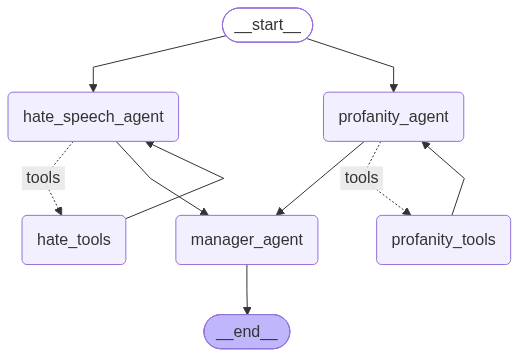
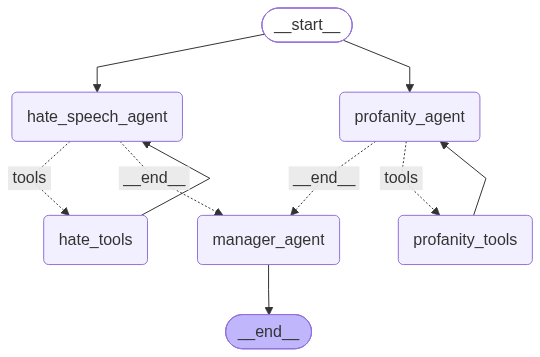
profanity checker tool added

diff --git a/graphs/agent_graph.py b/graphs/agent_graph.py
@@ -5,7 +5,7 @@ from agents.profanity_agent import profanity_agent
 from agents.manager_agent import manager_agent
 from IPython.display import Image, display
 from langgraph.prebuilt import ToolNode, tools_condition
-from tools.agent_tools import word_count_tool
+from tools.agent_tools import word_count_tool, profanity_check_tool
 
 
 builder = StateGraph(MessageState)
@@ -16,7 +16,7 @@ builder.add_node(node="hate_speech_agent", action=hate_speech_agent)
 builder.add_node(node="profanity_agent", action=profanity_agent)
 builder.add_node(node="manager_agent", action=manager_agent)
 builder.add_node(node="hate_tools", action=ToolNode(tools=[word_count_tool]))
-builder.add_node(node="profanity_tools", action=ToolNode(tools=[word_count_tool]))
+builder.add_node(node="profanity_tools", action=ToolNode(tools=[word_count_tool, profanity_check_tool]))
 
 # adding Start to agent connection edges
 
@@ -27,8 +27,8 @@ builder.add_edge(start_key="hate_tools", end_key="hate_speech_agent")
 builder.add_conditional_edges(source="profanity_agent", path=tools_condition, path_map={"tools": "profanity_tools", END: "manager_agent"})
 builder.add_edge(start_key="profanity_tools", end_key="profanity_agent")
 
-builder.add_edge(start_key="hate_speech_agent", end_key="manager_agent")
-builder.add_edge(start_key="profanity_agent", end_key="manager_agent")
+# builder.add_edge(start_key="hate_speech_agent", end_key="manager_agent")
+# builder.add_edge(start_key="profanity_agent", end_key="manager_agent")
 
 builder.add_edge(start_key="manager_agent", end_key=END)
 

diff --git a/tools/agent_tools.py b/tools/agent_tools.py
@@ -8,3 +8,46 @@ def word_count_tool(text: str) -> int:
     A tool that counts the number of words in a given text.
     """
     return len(text.split())
+
+
+
+@tool
+def profanity_check_tool(message: str) -> dict:
+    """
+        Check whether the given text contains common profanity words.
+
+        Args:
+            text (str): The input text to check for profanity.
+
+        Returns:
+            dict: A dictionary containing:
+                - contains_profanity (bool): True if any profanity is found,
+                otherwise False.
+                - matched_words (list[str]): List of profanity words found
+                in the input text.
+                
+    """
+
+    profanity_words = {
+        "idiot",
+        "stupid",
+        "damn",
+        "shit",
+        "fuck",
+    }
+
+    words = set(message.lower().split())
+
+    found_words = words.intersection(profanity_words)
+
+    return {
+        "contains_profanity": bool(found_words),
+        "matched_words": list(found_words),
+    }
+
+
+
+# if __name__ == "__main__":
+#     message = "You are an Idiot"
+#     result = profanity_check_tool(message=message)
+#     print(result)

diff --git a/agents/profanity_agent.py b/agents/profanity_agent.py
@@ -4,7 +4,7 @@ from core.config import get_settings
 from schema.agent_response import ProfanityAgentResponse
 from prompts.profanity_prompts import system_prompt, profanity_prompt_template
 from langchain.messages import HumanMessage
-from tools.agent_tools import word_count_tool
+from tools.agent_tools import word_count_tool, profanity_check_tool
 
 
 def profanity_agent(state: MessageState) -> dict:
@@ -12,7 +12,7 @@ def profanity_agent(state: MessageState) -> dict:
     llm = llm_manager.load_model()
     prompt = HumanMessage(content=profanity_prompt_template.format(message=state['message']))
     messages = [system_prompt, prompt]
-    llm_with_tools = llm.bind_tools(tools=[word_count_tool])
+    llm_with_tools = llm.bind_tools(tools=[word_count_tool, profanity_check_tool])
     tool_response = llm_with_tools.invoke(input=messages)
     # state['messages'] = tool_response
     llm_with_structured_output = llm.with_structured_output(ProfanityAgentResponse)

diff --git a/main.py b/main.py
@@ -42,7 +42,7 @@ def main():
     # print("*"*100)
     # print(result3)
     input: MessageState = { "messages": "",
-                           "message":"That entire ethnic group is worthless.",
+                           "message":"you are an idiot",
                            "hate_speech_agent_response": {},
                            "profanity_agent_response": {},
                            "final_decision": {}}
